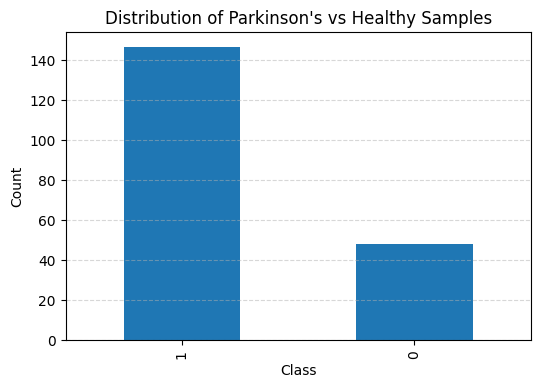
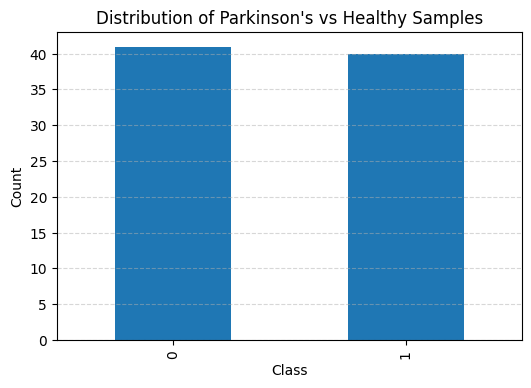
data audio

diff --git a/3_Audio_Models/Tabular/data/data_generation/generate_data.py b/3_Audio_Models/Tabular/data/data_generation/generate_data.py
@@ -4,66 +4,12 @@ import numpy as np
 from tqdm import tqdm
 from data_visualization.plots import plot_class_counts
 
-from ucimlrepo import fetch_ucirepo 
-
 from sdv.metadata import Metadata
 from sdv.single_table import TVAESynthesizer
 from sdv.evaluation.single_table import evaluate_quality
 
-def _clean_columns(columns):
-    """
-    Clean and standardize column names.
-
-    Actions performed:
-        1. Replace spaces and ':' characters with underscores.
-        2. Ensure all column names are unique by appending incremental suffixes.
-    """
-    seen_counts = {}
-    cleaned_list = []
-    for col in columns:
-        cleaned = col.replace(":", "_").replace(" ", "_")
-        if cleaned in seen_counts:
-            seen_counts[cleaned] += 1
-            cleaned = f"{cleaned}_{seen_counts[cleaned]}"
-        else:
-            seen_counts[cleaned] = 0
-
-        cleaned_list.append(cleaned)
-    return cleaned_list
-
-
-
-def _get_real_data():
-    """
-    Load and preprocess the Parkinson's dataset from the UCI Machine Learning Repository.
-
-    Steps performed:
-        1. Fetch dataset (ID = 174).
-        2. Merge feature and target DataFrames.
-        3. Clean column names using _clean_columns().
-        4. Convert all columns to numeric (non-numeric values → NaN).
-
-    Returns:
-        pd.DataFrame: Preprocessed dataset combining features and targets.
-    """
-    
-    # 1. Fetch dataset
-    parkinsons = fetch_ucirepo(id=174)
-
-    # 2. make one DataFrame with features + target(s)
-    df = pd.concat([parkinsons.data.features, parkinsons.data.targets], axis=1)
-
-    # 3. Clean column names
-    df.columns = _clean_columns(df.columns)
-
-    # 4. Ensure numerics
-    df = df.apply(pd.to_numeric, errors="coerce")
-    
-    return df
-
-
-
-def train_TVAE(output_dir: str,
+def train_TVAE(csv_dir: str,
+            output_dir: str,
             epochs: int = 2000,
             create_metadata: bool = True):
     """
@@ -82,10 +28,10 @@ def train_TVAE(output_dir: str,
     
     # 1. Load the dataset
     # ---------------------
-    real_df = _get_real_data()
+    real_df = _get_real_data(csv_dir)
     
     # Plot class counts
-    plot_class_counts(real_df, target_col="status")
+    plot_class_counts(real_df, target_col="label")
     
     # 2. Create or load Metadata
     # -----------------------------
@@ -99,8 +45,8 @@ def train_TVAE(output_dir: str,
         
     # 3. split into healthy vs PD (for balancing data)
     # ---------------------------------------------------
-    healthy_df = real_df[real_df["status"] == 0]
-    pd_df = real_df[real_df["status"] == 1]
+    healthy_df = real_df[real_df["label"] == 0]
+    pd_df = real_df[real_df["label"] == 1]
 
     # 4. Init TWO TVAE synthesizers
     # ------------------------------
@@ -132,7 +78,8 @@ def train_TVAE(output_dir: str,
 
 
 
-def generate_voice_data(output_dir: str,
+def generate_voice_data(csv_dir: str,
+                        output_dir: str,
                         file_name: str = "parkinsons_generated",
                         load_existing_model: bool = True,
                         num_generated_samples: int = 20000,
@@ -187,7 +134,7 @@ def generate_voice_data(output_dir: str,
     
     # 4. Evaluate generated data
     # ----------------------------
-    real_df = _get_real_data()
+    real_df = _get_real_data(csv_dir)
     synth_df = pd.read_csv(synth_csv_path)
     
     report = evaluate_quality(
@@ -229,26 +176,22 @@ def generate_voice_data(output_dir: str,
     
     return synth_df
 
+def _get_real_data(csv_dir: str):
+    """
+    Load and preprocess the Parkinson's dataset.
 
-def _filter_synthetic_data(real_df, synthetic_df, metadata, threshold_std=10):
-    """Remove outliers that are too far from real data distribution."""
-    mask = pd.Series([True] * len(synthetic_df))
+    Steps performed:
+        1. load csv.
+        2. Convert all columns to numeric (non-numeric values → NaN).
+
+    Returns:
+        pd.DataFrame: Preprocessed dataset combining features and targets.
+    """
     
-    for col in tqdm(real_df.columns, desc="Filtering outliers"):
-        if col == 'status':
-            continue
-        
-        real_mean = real_df[col].mean()
-        real_std = real_df[col].std()
-        
-        # Keep samples within threshold standard deviations
-        col_mask = (
-            (synthetic_df[col] >= real_mean - threshold_std * real_std) &
-            (synthetic_df[col] <= real_mean + threshold_std * real_std)
-        )
-        mask = mask & col_mask
+    # 1. Fetch dataset
+    df = pd.read_csv(csv_dir)
+
+    # 2. Ensure numerics
+    df = df.apply(pd.to_numeric, errors="coerce")
     
-    filtered_df = synthetic_df[mask].reset_index(drop=True)
-    print(f"Kept {len(filtered_df)}/{len(synthetic_df)} samples ({len(filtered_df)/len(synthetic_df)*100:.1f}%)")
-    
-    return filtered_df
+    return df

diff --git a/4_User_Data_Model/README.md b/4_User_Data_Model/README.md
@@ -2,6 +2,7 @@
 - Metadata and questionaires from PADS dataset.
 
 ![alt text](data/data_visualization/classes.png)
+
 ![alt text](data/data_visualization/age_histogram.png)
 ![alt text](data/data_visualization/height_vs_weight.png)
 
